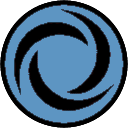
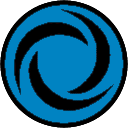
Frost Counters

diff --git a/src/routes/game/components/elements/countersOverlay/CountersOverlay.module.css b/src/routes/game/components/elements/countersOverlay/CountersOverlay.module.css
@@ -213,6 +213,25 @@
   cursor: default;
 }
 
+.frostCounter.frostCounter {
+  border-radius: 100%;
+  display: flex;
+  justify-content: center;
+  align-items: center;
+  height: 1.75em;
+  width: 1.75em;
+  background-image: url('../../../../../img/symbols/symbol-frostCounter.png');
+  background-position: center;
+  background-size: contain;
+  text-align: center;
+  font-size: 1.5em;
+  color: var(--white);
+  text-shadow: -1px 1px 2px #000, 1px 1px 2px #000, 1px -1px 0 #000,
+    -1px -1px 0 #000;
+  z-index: -1;
+  cursor: default;
+}
+
 .attackCounter.attackCounter {
   border-radius: 100%;
   display: flex;

diff --git a/src/routes/game/components/elements/countersOverlay/components/ContinuousCounters.tsx b/src/routes/game/components/elements/countersOverlay/components/ContinuousCounters.tsx
@@ -17,6 +17,7 @@ const includedCounters = [
   'lesson',
   'rust',
   'flow',
+  'frost',
   'aim'
 ];
 
@@ -113,6 +114,14 @@ export const ContinuousCounters = (props: Props) => {
           title={`${countersMap?.flow} flow counter(s)`}
         >
           <div>{countersMap?.flow}</div>
+        </div>
+      )}
+      {!!Number(countersMap?.frost) && (
+        <div
+          className={styles.frostCounter}
+          title={`${countersMap?.frost} frost counter(s)`}
+        >
+          <div>{countersMap?.frost}</div>
         </div>
       )}
       {!!Number(countersMap?.aim) && (

diff --git a/src/routes/game/components/elements/countersOverlay/CountersOverlay.tsx b/src/routes/game/components/elements/countersOverlay/CountersOverlay.tsx
@@ -39,6 +39,7 @@ export const CountersOverlay = ({
     'lesson',
     'rust',
     'flow',
+    'frost',
     'aim'
   ];
 
